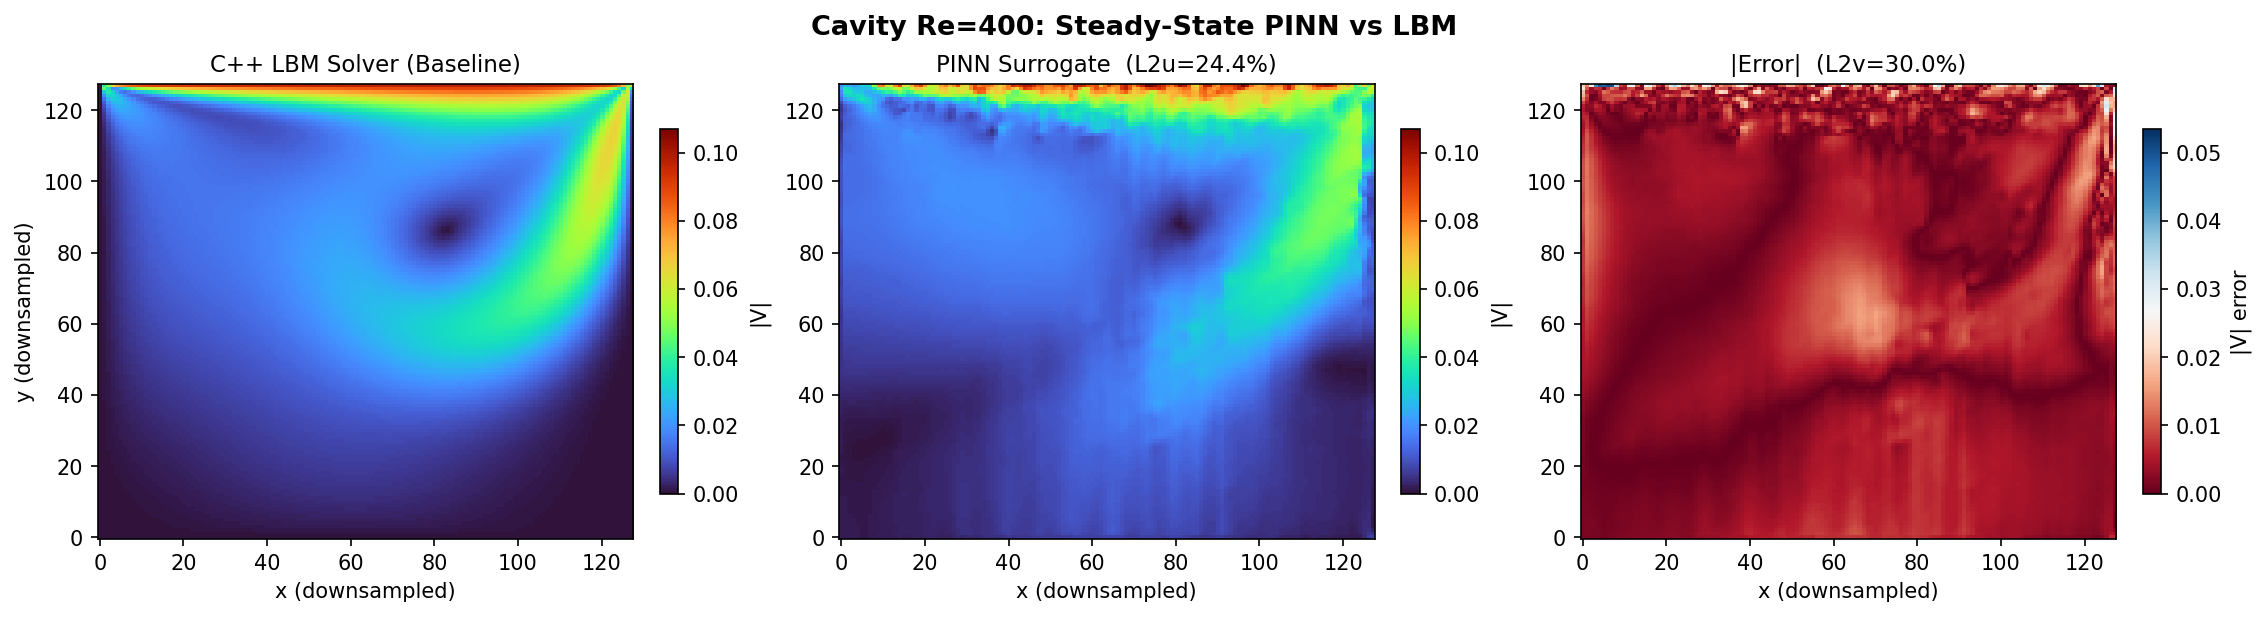
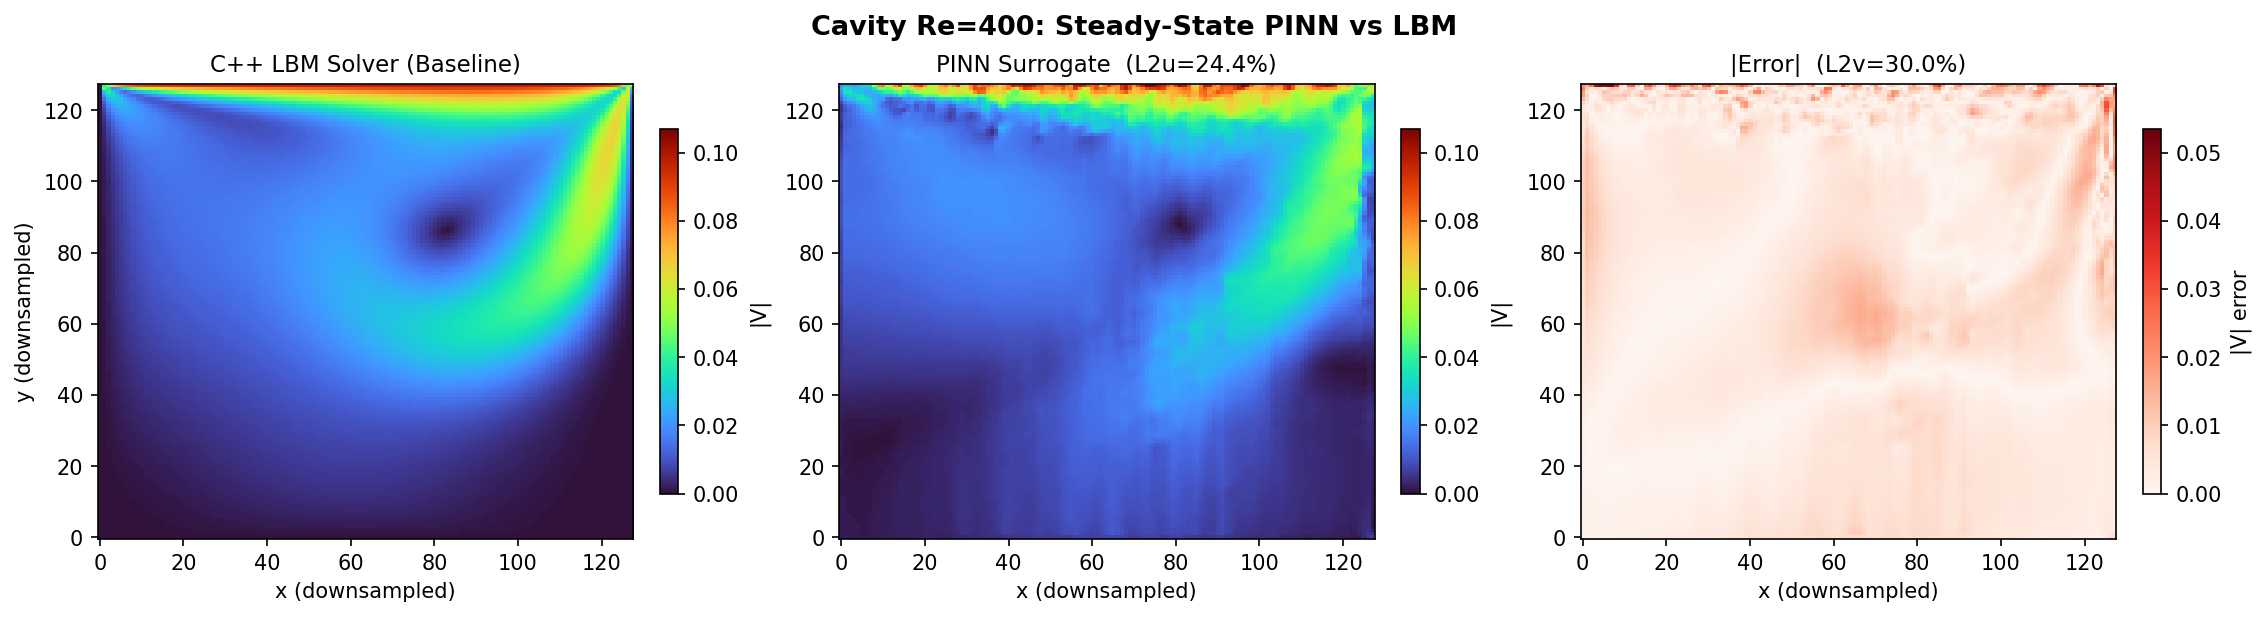
Use Reds colormap for PINN error-delta panel

Changed region(s): [[0.6796, 0.1232, 0.9576, 0.893]]

diff --git a/pinn/cases/cavity/plot_results.py b/pinn/cases/cavity/plot_results.py
@@ -59,8 +59,8 @@ def plot_comparison(re=100, case_dir=CASE_DIR):
     axes[1].set_title(f"PINN Surrogate  (L2u={l2_u:.1%})", fontsize=11)
     axes[1].set_xlabel("x (downsampled)")
 
-    # Panel C: Error Delta (diverging RdBu centered on zero)
-    im2 = axes[2].imshow(err, origin="lower", cmap="RdBu",
+    # Panel C: Error Delta (sequential Reds, low=good)
+    im2 = axes[2].imshow(err, origin="lower", cmap="Reds",
                           vmin=0.0, vmax=vmax * 0.5, aspect="auto")
     axes[2].set_title(f"|Error|  (L2v={l2_v:.1%})", fontsize=11)
     axes[2].set_xlabel("x (downsampled)")